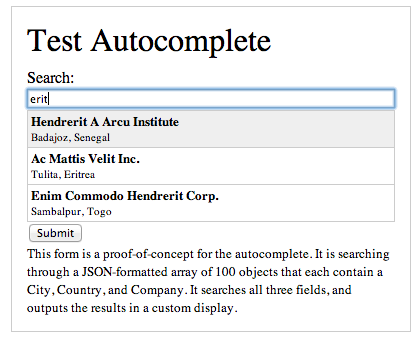
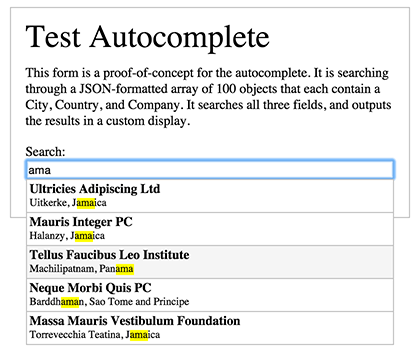
Updated readme

Changed region(s): [[0.0, 0.0, 0.9905, 0.9971], [0.9286, 0.9677, 0.9595, 0.9971], [0.9286, 0.8504, 0.9595, 0.8798]]

diff --git a/README.md b/README.md
@@ -1,10 +1,10 @@
 Autocomplete
 ============
 
-An autocomplete widget. Built to be as reusable as possible. Means a tiny bit more work for the instantiator, but hopefully flexible and simple enough to be used in different contexts.
+An autocomplete widget. Built to be as reusable as possible, but hopefully flexible and simple enough to be used in different contexts.
 
 
-Clone this repository. Run `npm install` and `bower install`. Then run `grunt`. This will start up a server at `localhost:8000` and will run jasmine tests. Navigate to /index.html and you'll be presented with a sample of this autocomplete (see screenshot). It is running on local data, and should give you a good feel of what this autocomplete does. Tailor it to your needs and use it in your own project!
+Clone this repository. Run `npm install` and `bower install`. Then run `grunt dev`. This will start up a server at `localhost:8000` and will run jasmine tests. You'll be presented with a sample of this autocomplete (see screenshot). It is running on local data, and should give you a good feel of what this autocomplete does. Tailor it to your needs and use it in your own project!
 
 ![autocomplete](/autocomplete-example.png)
 
@@ -12,52 +12,69 @@ Clone this repository. Run `npm install` and `bower install`. Then run `grunt`. 
 * jQuery
 
 ## Usage
-The AutoComplete widget is always instantiated with an html element. This element is expected to be an `input` element, as the user will type and be presented with a set of matched results. Other than the element, you will also want to set a threshold of characters that must be typed before the Autocomplete will start fetching results. By default this is set at 2, but you can override that. You can also limit the number of results displayed in the result list by using the `limit` config option.
+The AutoComplete widget is always instantiated with an html element. This element is expected to be an `input` element, as the user will type and be presented with a set of matched results. Other than the element, you will also want to set a threshold of characters that must be typed before the Autocomplete will start fetching results. By default this is set at 2, but you can override that. You can also limit the number of results displayed in the result list by using the `limit` config option. If you want to limit input value to fetched results only, use `forceSelection` option. `debounceTime` defines how long (after users stops typing) should AutoComplete wait before it calls `fetch` function.
 
 ```js
 new AutoComplete({
-  el: "#myInputElement",
+  el: ".js-autocomplete-input",
   threshold: 2,
   limit: 5,
+  forceSelection: true,
+  debounceTime: 200,
   ...
 });
 ```
 
 # Templating
-You can pass a `template` config option to the Autocomplete. It accepts a handful of properties, but only one is required - `resultsItem`.
+You can pass a `templates` config option to the AutoComplete. `item` template is responsible for the results item display (feel free to put some html there). `value` template is rendered as `data-value` attribute in the result item node (see `onItem` function explanation below). `empty` template is rendered when `fetch` returns empty results array.
 ```js
 new AutoComplete({
   ...
-  template: {
-    elementWrapper:   "<div class='js-autocomplete'></div>",
-    resultsWrapper:     "<div class='autocomplete'></div>",
-    resultsContainer:     "<ul class='autocomplete__results'></ul>",
-    resultsItem:            "<li class='autocomplete__results__item' data-age='{{age}}'>{{name}}</li>",
-
-    resultsItemHighlightClass: "autocomplete__results__item--highlight",
-    searchTermHighlightClass: "autocomplete__search-term--highlight",
-    hiddenClass: "is-hidden"
+  templates: {
+    item: "<strong>{{text}}</strong>",
+    value: "{{text}}",
+    empty: "No matches found"
   },
   ...
 });
 ```
-When creating the `resultsItem` string, variables are surrounded by double curly brackets, like {{this}}. No need to escape the html, the script will look through the html string and replace all variables in curly brackets with the values in your data.
+When creating the `item` / `value` template, variables are surrounded by double curly brackets, like `{{this}}`. No need to escape the html, the script will look through the html string and replace all variables in curly brackets with the values in your data.
 
-The three class properties are to assist when styling the autocomplete.
+Disabled items are supported - all you have to do is add `disabled: true` property to your item data you don't want to be clickable. That item will also be provided with extra class. 
 
-Once `new AutoComplete` is instantiated, it changes the original `<input type="text" />`. It wraps it in an '.autocomplete' div and appends a result div after.
+When fetching starts, `is-loading` class is added to the wrapper element. It's removed as soon as the results appear/fetching stops.
+
+Once `new AutoComplete` is instantiated, it changes the original `<input type="text" />`. It wraps it in an `wrapper` div and appends a `result` div after.
 
 ```html
-<div class="js-autocomplete">
-  <input id="myInputElement" type="text" />
-  <div class="autocomplete">
-    <ul class="autocomplete__results">
-      <li class="autocomplete__results__item" data-age="44">Mark</li>
-      <li class="autocomplete__results__item autocomplete__results--highlight" data-age="24">Daniel</li>
-      <li class="autocomplete__results__item" data-age="42">Carrie</li>
+<div class="autocomplete">
+  <input class="js-autocomplete-input" type="text" />
+  <div class="autocomplete__results">
+    <ul class="autocomplete__list">
+      <li class="autocomplete__list__item" data-value="44">Mark</li>
+      <li class="autocomplete__list__item autocomplete__list__item--highlighted" data-value="24">Daniel</li>
+      <li class="autocomplete__liat__item autocomplete__list__item--disabled" data-value="42">Carrie</li>
     </ul>
   </div>
 </div>
+```
+
+Base classes are fixed, but custom classes can still be added to each element via `extraClasses` config object.
+Here's full list of elements & classes that can be extended:
+```js
+  ...
+  classes: {
+    wrapper:     "autocomplete",
+    results:     "autocomplete__results",
+    list:        "autocomplete__list",
+    item:        "autocomplete__list__item",
+    highlighted: "autocomplete__list__item--highlighted",
+    disabled:    "autocomplete__list__item--disabled",
+    empty:       "autocomplete__list__item--empty",
+    searchTerm:  "autocomplete__list__item__search-term",
+    loading:     "is-loading"
+  },
+  ...
 ```
 
 ## fetch(), and onItem() Explained
@@ -107,9 +124,9 @@ var myFetch = function(searchTerm, callback) {
 ```
 
 ### onItem()
-Just as the fetch function gives you full control of how the data is fetched, this function gives you full control of what happens when a user **selects** a result in the autocomplete. The typical case is the input value is replaced by the value of the result. But sometimes you may want to do other things (set hidden variables in your form based on the data-id of the list item, navigate directly to a url, etc.).
+Just as the fetch function gives you full control of how the data is fetched, this function gives you full control of what happens when a user **selects** a result in the autocomplete. The typical case is the input value is replaced by the value of the result. But sometimes you may want to do other things (set hidden variables in your form based on the `data-value` attribute of the list item).
 
-This function is passed the DOM element (not the jQuery element, the actual DOM element) of the selected item, as well as the click event. So you are receiving exactly **one** list item that will be formatted just as you specified in the myTemplate() function. e.preventDefault() and e.stopPropagation() have already been called on the event by the time you receive the el and event.
+This function is passed the DOM element (not the jQuery element, the actual DOM element) of the selected item, as well as the click event. So you are receiving exactly **one** list item that will be formatted just as you specified in the `renderTemplate()` function. `e.preventDefault()` and `e.stopPropagation()` have already been called on the event by the time you receive the `el`.
 
 **Example:**
 ```js
@@ -119,39 +136,46 @@ new AutoComplete({
   ...
 });
 
-var myOnItem = function(el, e) {
-  var selectedValue = $(el).text();
-  $("#myInput").val(selectedValue);
+var myOnItem = function(el) {
+  var selectedValue = $(el).data("value");
+  $(".js-autocomplete-input").val(selectedValue);
 }
 ```
 
 ## CSS
-By default this should work without much styling, but here are some recommended styling options to set:
+By default this should work without much styling, but here are some recommended, minimum styling options to set:
 
 ```css
-.is-hidden {
-  display: none;
-}
 .autocomplete__results {
-  border: 1px solid #ccc;
-  max-height: 200px;
-  overflow-y: scroll;
+  position: relative;
 }
-.autocomplete__results ul {
-  list-style: none;
+.autocomplete__list {
+  position: absolute;
+  top: 0px;
+  left: 0px;
+  width: 100%;
   margin: 0px;
   padding: 0px;
+  border: 1px solid silver;
+  background: white;
 }
-.autocomplete__results ul li {
-  border-bottom: 1px solid #ccc;
-  padding: 3px;
-  font-size: 0.8em;
+.autocomplete__list__item {
+  border-bottom: 1px solid silver;
+  background: white;
+  cursor: pointer;
 }
-.autocomplete__results ul li:last-child {
-  border: 0px;
+.autocomplete__list__item:last-child {
+  border-bottom: 0px;
 }
-.autocomplete__results ul li:hover,
-.autocomplete__results--highlight {
-  background: #efefef;
+.autocomplete__list__item--disabled {
+  color: gray;
+  cursor: default
 }
+.autocomplete__list__item--highlighted {
+  background: whitesmoke;
+}
+.autocomplete__list__item__search-term {
+  background-color: yellow;
+}
+
 ```
